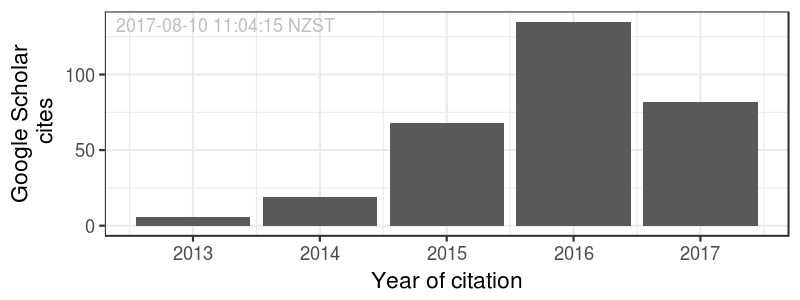
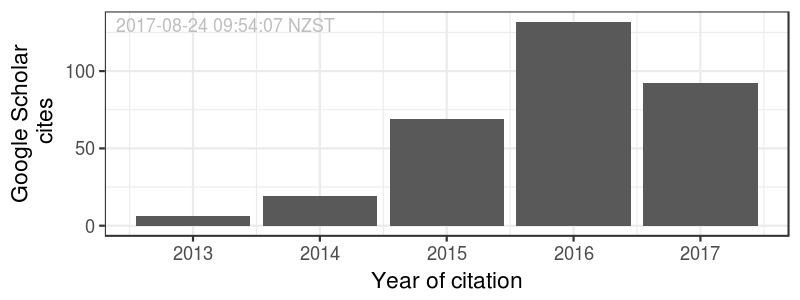
updated cv and scripts

diff --git a/index.md b/index.md
@@ -119,7 +119,7 @@ A course designed to walk Research Supervisors through the frameworks and pragma
 
 * Journal articles: __26__	
 * H-index: __10__
-* Citations: __315__
+* Citations: __323__
 
 ## Publications
 
@@ -128,7 +128,7 @@ A course designed to walk Research Supervisors through the frameworks and pragma
 
 Matovinovic E, Kho PF, Lea RA, **Benton MC**, Eccles DA, Haupt LM, Hewitt AW, Sherwin JC, Mackey DA, and Griffiths LR. (2017) Genome-wide linkage and association analysis of primary open-angle glaucoma endophenotypes in the Norfolk Island isolate. *Molecular Vision* (preliminary acceptance 4th July, awaiting publication)
 
-Jones A, Danielson KM, **Benton MC**, Ziegler O, Shah R, Stubbs RS, Das S, and Macartney-Coxson D. (2017) miRNA signatures of insulin resistance in obesity. *Obesity* (accepted, DOI: 10.1002/oby.21950)
+Jones A, Danielson KM, **Benton MC**, Ziegler O, Shah R, Stubbs RS, Das S, and Macartney-Coxson D. (2017) miRNA signatures of insulin resistance in obesity. *Obesity* (early access, DOI: 10.1002/oby.21950)
 
 White NM, **Benton MC**, Kennedy D, Fox A, Griffiths LR, Lea RA, and Mengersen KL. (2017) Accounting for cell lineage and sex effects in the identification of cell-specific DNA methylation using a Bayesian model selection algorithm. *PLoS One* (accepted) 
 
@@ -189,6 +189,8 @@ Maher BH, Lea RA, **Benton MC**, Cox HC, Bellis C, Carless M, Dyer TD, Curran J,
 ### Conference Talks
 
 `2017`
+**Benton MC**. The ‘omic coal face: classifying human genomic and epigenomic inheritance. IHBI Inspires 2017, Brisbane, Australia, August 23rd-25th.
+
 **Benton MC**. Identification of allelic-specific methylation profiles in a genetic isolate. GeneMappers 2017 - Novotel Geelong, Victoria, Australia, April 26th-28th.
 
 `2016`
